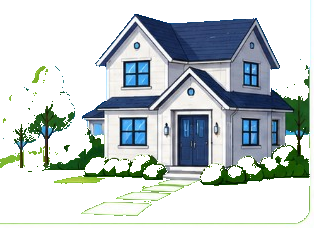
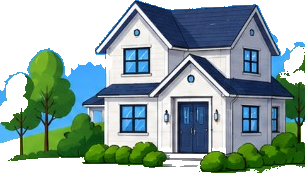
updates

diff --git a/css/app.css b/css/app.css
@@ -494,14 +494,24 @@ body {
   opacity: 0.95;
 }
 
+.home-hero-card__house-wrap {
+  align-self: end;
+  width: 100%;
+  max-height: 7.25rem;
+  overflow: hidden;
+  line-height: 0;
+}
+
 .home-hero-card__house {
   display: block;
-  width: 100%;
+  width: 106%;
+  max-width: none;
   height: auto;
-  max-height: 7.25rem;
+  max-height: 7.5rem;
   object-fit: contain;
   object-position: bottom right;
-  align-self: end;
+  margin-right: -6%;
+  margin-bottom: -2px;
 }
 
 @media (min-width: 480px) {
@@ -515,8 +525,12 @@ body {
     font-size: 1.3rem;
   }
 
-  .home-hero-card__house {
+  .home-hero-card__house-wrap {
     max-height: 7.75rem;
+  }
+
+  .home-hero-card__house {
+    max-height: 8rem;
   }
 }
 

diff --git a/index.html b/index.html
@@ -238,14 +238,16 @@
               </h2>
               <p class="home-hero-card__meta" id="home-item-meta">0 Items • All Up to Date</p>
             </div>
+            <div class="home-hero-card__house-wrap" aria-hidden="true">
             <img
               class="home-hero-card__house"
-              src="./images/home-card-house-white.png?v=1"
+              src="./images/home-card-house-white.png?v=3"
               alt=""
-              width="314"
-              height="228"
+              width="305"
+              height="173"
               decoding="async"
             />
+            </div>
           </section>
 
           <nav class="home-action-grid" aria-label="Quick actions">